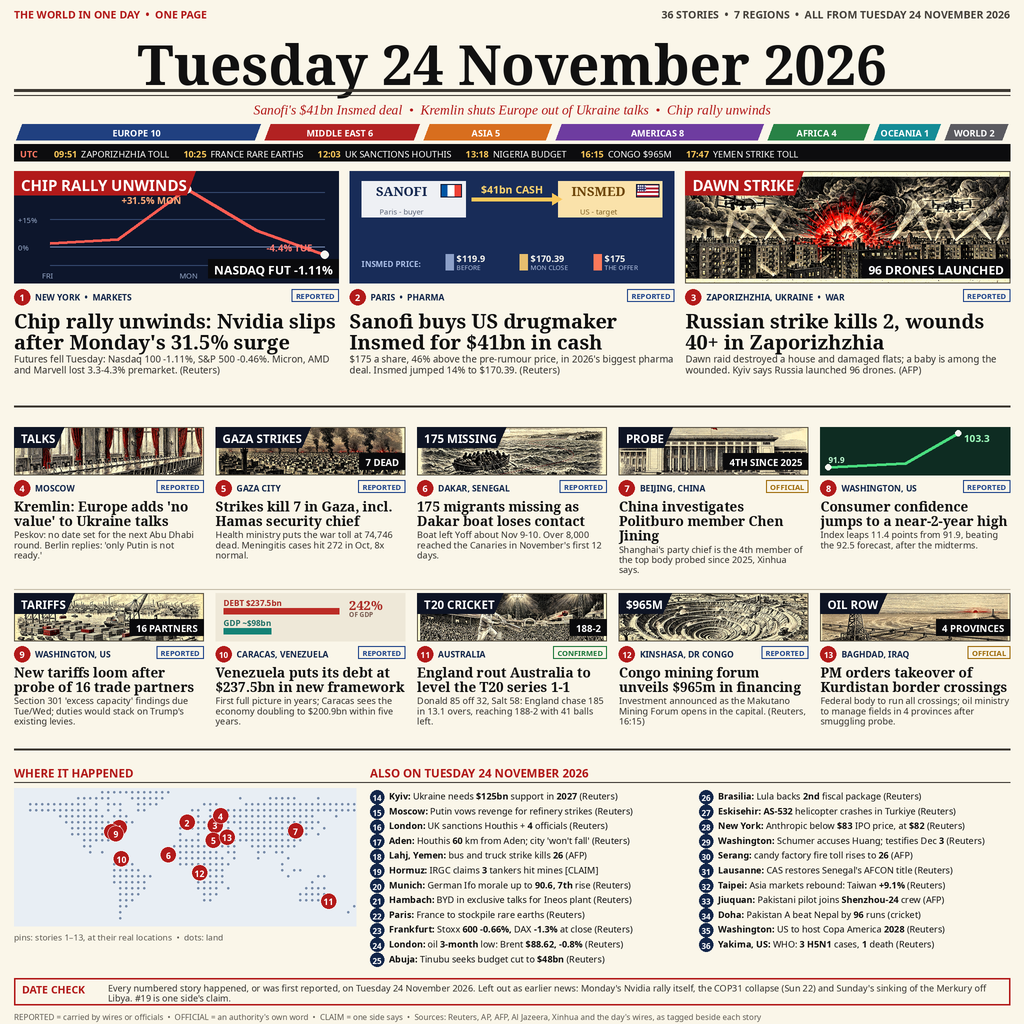
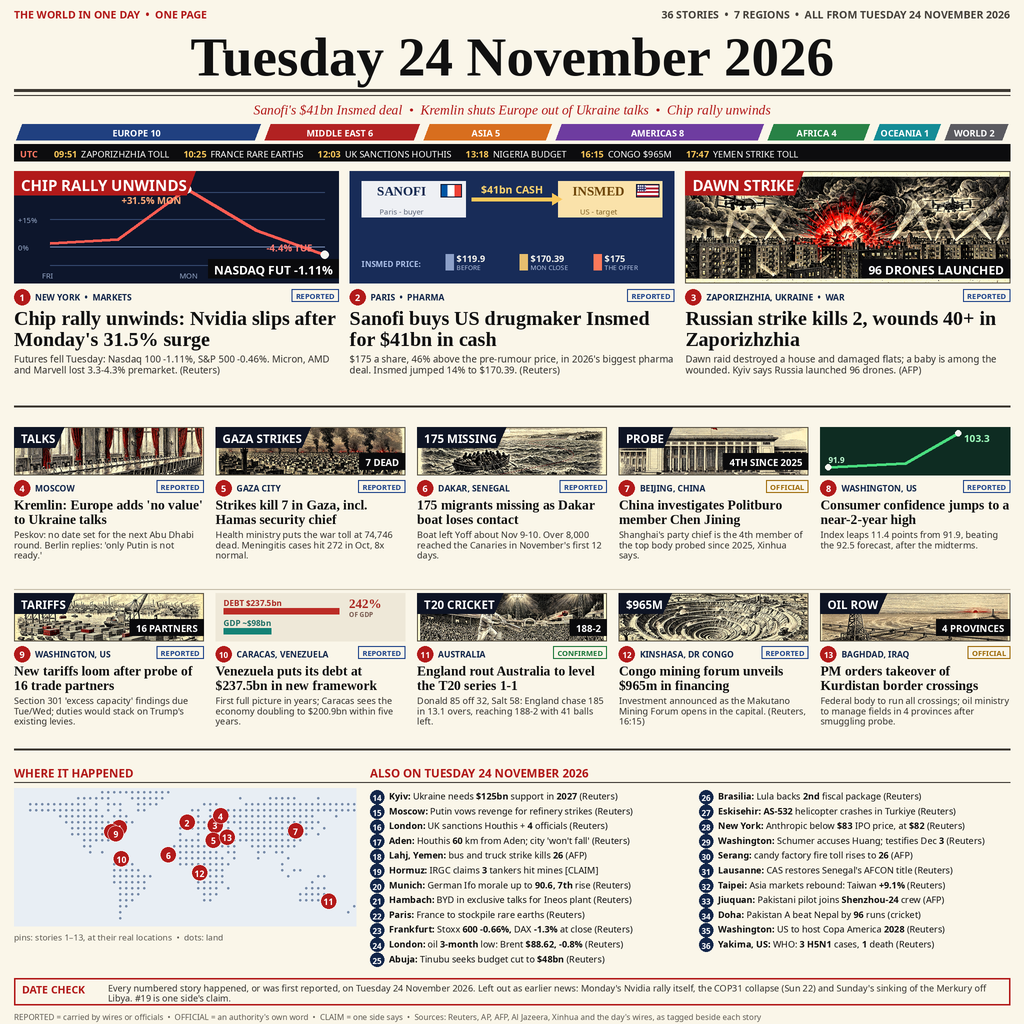
v8: Liberation Serif typeface

diff --git a/draw_image.py b/draw_image.py
@@ -23,8 +23,8 @@ TEAL = (14, 110, 120)
 PURPLE = (96, 52, 140)
 ORANGE = (214, 106, 20)
 
-SERIF_B = "/usr/share/fonts/truetype/noto/NotoSerif-Bold.ttf"
-SERIF = "/usr/share/fonts/truetype/noto/NotoSerif-Regular.ttf"
+SERIF_B = "/usr/share/fonts/truetype/liberation/LiberationSerif-Bold.ttf"
+SERIF = "/usr/share/fonts/truetype/liberation/LiberationSerif-Regular.ttf"
 SERIF_I = "/usr/share/fonts/truetype/liberation/LiberationSerif-Italic.ttf"
 SANS_B = "/usr/share/fonts/truetype/noto/NotoSans-Bold.ttf"
 SANS = "/usr/share/fonts/truetype/noto/NotoSans-Regular.ttf"
